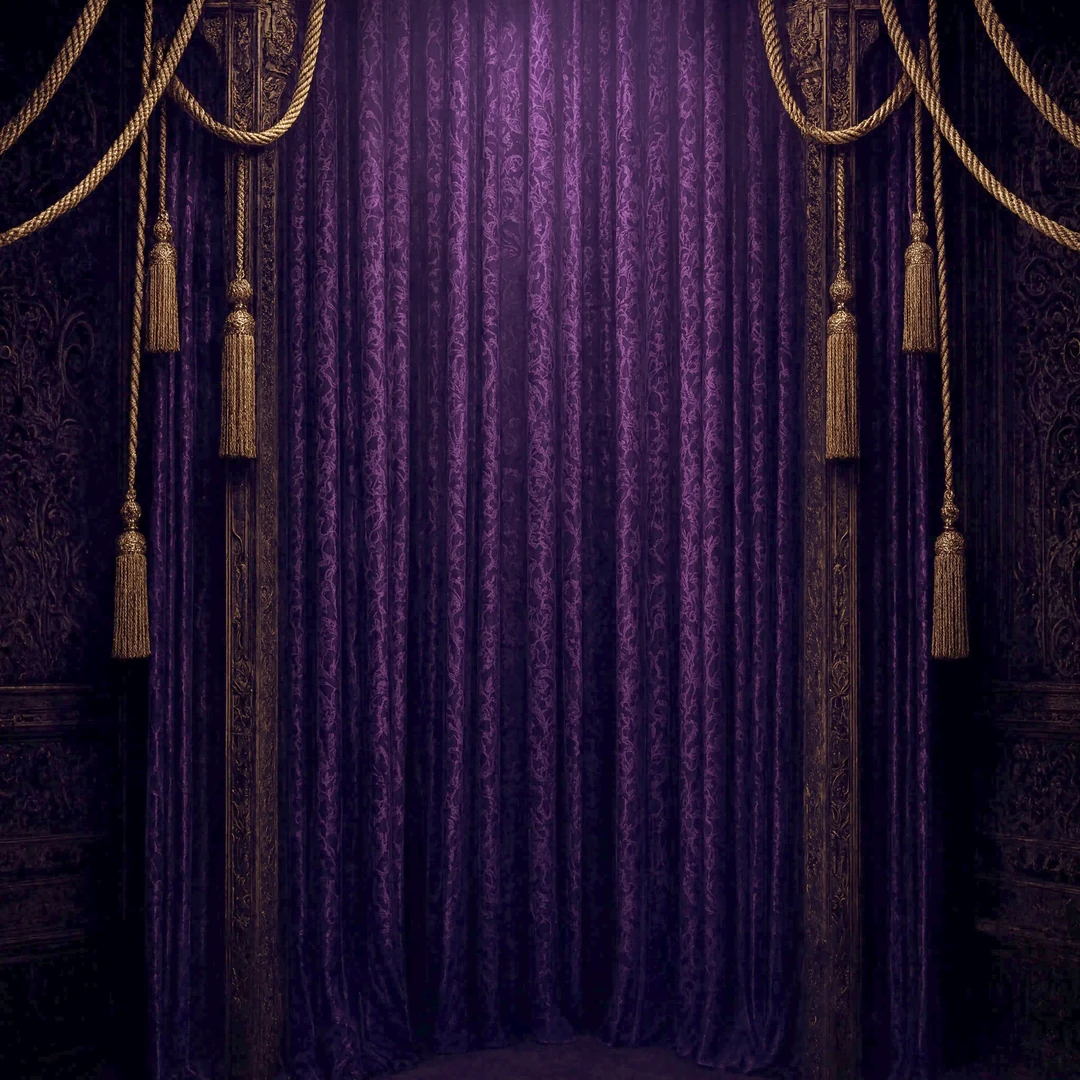
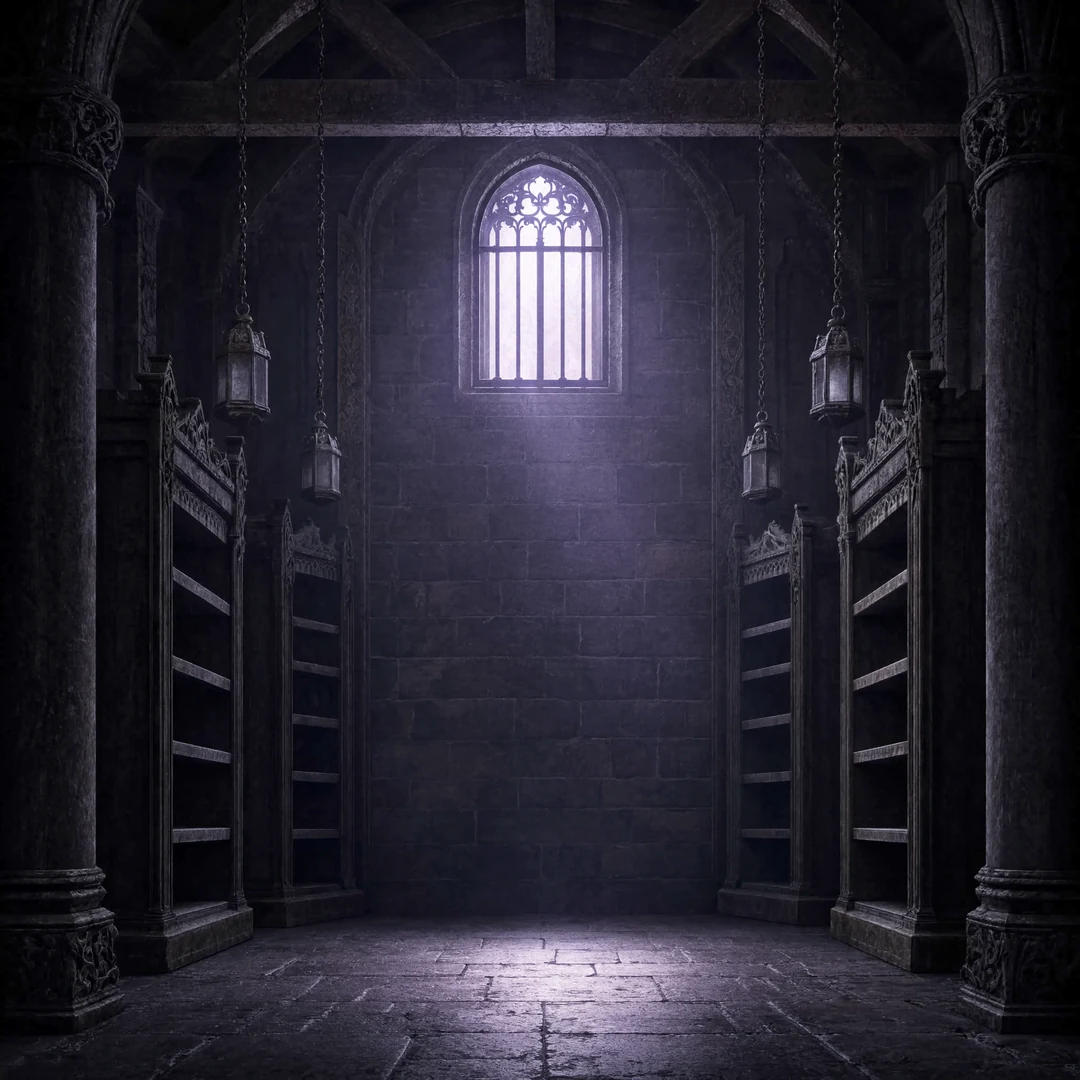
Un lieu pour la boutique et pour les Ordres
La page Ordres recoit son fond, pose exactement comme celui de la boutique :
deux couches, le voile sombre puis le mur, et la couleur pleine en repli si le
fichier manque. PAS de mask-image ici, contrairement a la boutique : cette page
ne defile pas, et un fondu du bas dessinerait une ligne au ras de la
navigation. Aucune marge automatique n est touchee : ce sont elles qui centrent
les huit portraits.

Le fond d echoppe, lui, ne change que d image : la pierre remplace la tenture,
et passe de 230 a 133 ko.

Les trois sources en pleine definition entrent par git add -f : le dossier
sources-images est exclu par .gitignore, et ces trois fichiers font ensemble
29,6 Mo. La tenture est gardee comme archive d une piste abandonnee. Le reste
du dossier, 715 Mo, demeure exclu.

diff --git a/emprise-app/src/App.jsx b/emprise-app/src/App.jsx
@@ -7002,6 +7002,20 @@ const APP_STYLES = `
         .hub-page.page-ordres {
           overflow-y: auto; -webkit-overflow-scrolling: touch;
           justify-content: flex-start;
+          /* Le lieu des Ordres (04/09), pose exactement comme celui de la boutique :
+             deux couches, le voile sombre puis le mur, et la couleur pleine en repli si
+             le fichier tarde ou manque -- la page reste sombre et propre.
+             PAS de mask-image ici, contrairement a la boutique : cette page NE DEFILE
+             PAS, et un fondu du bas dessinerait une ligne au ras de la navigation.
+             Les marges automatiques du titre et de la grille ne sont pas touchees : ce
+             sont elles qui centrent les huit portraits, et un fond ne les regarde pas. */
+          background-color: #100c1a;
+          background-image:
+            linear-gradient(180deg, rgba(10,8,15,0.55), rgba(10,8,15,0.35) 40%, rgba(10,8,15,0.6)),
+            url("/fonds/fond-hub-ordres.webp");
+          background-size: cover;
+          background-position: center;
+          background-repeat: no-repeat;
         }
         .hub-page.page-boutique {
           overflow-y: auto; -webkit-overflow-scrolling: touch;
